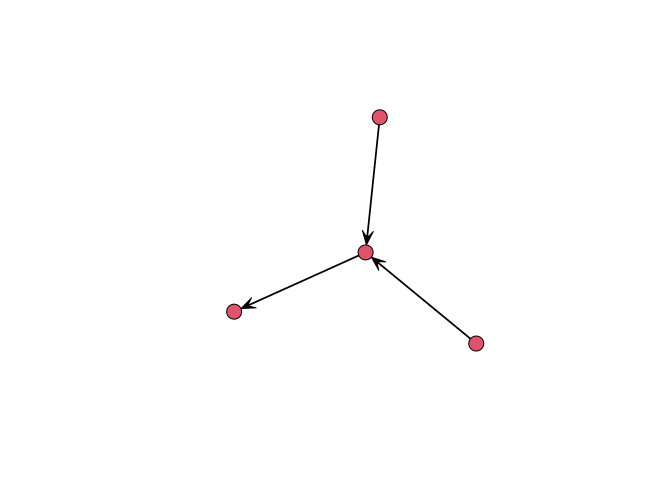
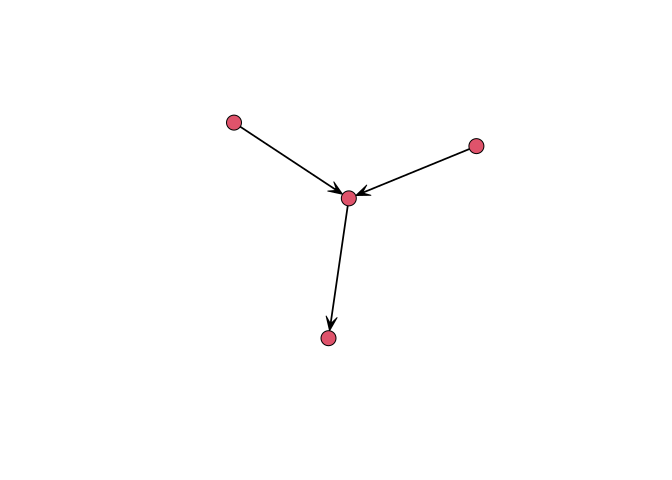
Updating the README

diff --git a/README.md b/README.md
@@ -5,11 +5,8 @@
 # ergmito: Exponential Random Graph Models for Small Networks <img src="man/figures/logo.png" align="right" width="180px"/>
 
 <!-- badges: start -->
-
-<!-- [![status](https://tinyverse.netlify.com/badge/ergmito)](https://CRAN.R-project.org/package=ergmito) -->
-
-[![CRAN
-status](https://www.r-pkg.org/badges/version/ergmito)](https://cran.r-project.org/package=ergmito)
+<!-- [![status](https://tinyverse.netlify.com/badge/ergmito)](https://CRAN.R-project.org/package=ergmito) --> 
+[![CRAN status](https://www.r-pkg.org/badges/version/ergmito)](https://cran.r-project.org/package=ergmito) 
 [![codecov](https://codecov.io/gh/muriteams/ergmito/branch/master/graph/badge.svg)](https://codecov.io/gh/muriteams/ergmito)
 [![](https://cranlogs.r-pkg.org/badges/grand-total/ergmito)](https://cran.r-project.org/package=ergmito)
 [![R-CMD-check](https://github.com/muriteams/ergmito/actions/workflows/R-CMD-check.yaml/badge.svg)](https://github.com/muriteams/ergmito/actions/workflows/R-CMD-check.yaml)
@@ -197,11 +194,11 @@ fivenets_gof
 #> Goodness-of-fit for edges 
 #> 
 #>       obs min     mean max lower upper lower prob. upper prob.
-#> net 1   2   0 3.746607  12     0     6 0.008080855   0.9635261
-#> net 2   7   0 3.746607  12     0     6 0.008080855   0.9635261
-#> net 3   4   0 3.113122  12     0     6 0.020642813   0.9881036
-#> net 4   5   0 5.647059  12     2     8 0.030934587   0.9514908
-#> net 5   2   0 3.746607  12     0     6 0.008080855   0.9635261
+#> net 1   2   0 3.746607  12     0     6 0.008080856   0.9635261
+#> net 2   7   0 3.746607  12     0     6 0.008080856   0.9635261
+#> net 3   4   0 3.113122  12     0     6 0.020642814   0.9881036
+#> net 4   5   0 5.647059  12     2     8 0.030934588   0.9514908
+#> net 5   2   0 3.746607  12     0     6 0.008080856   0.9635261
 #> 
 #> 
 #> Goodness-of-fit for nodematch.female 
@@ -396,7 +393,7 @@ size five
 ``` r
 plogis(coef(ans1)[1])   
 #>     edges 
-#> 0.2333333
+#> 0.2333334
 plogis(sum(coef(ans1))) 
 #> [1] 0.11
 ```
